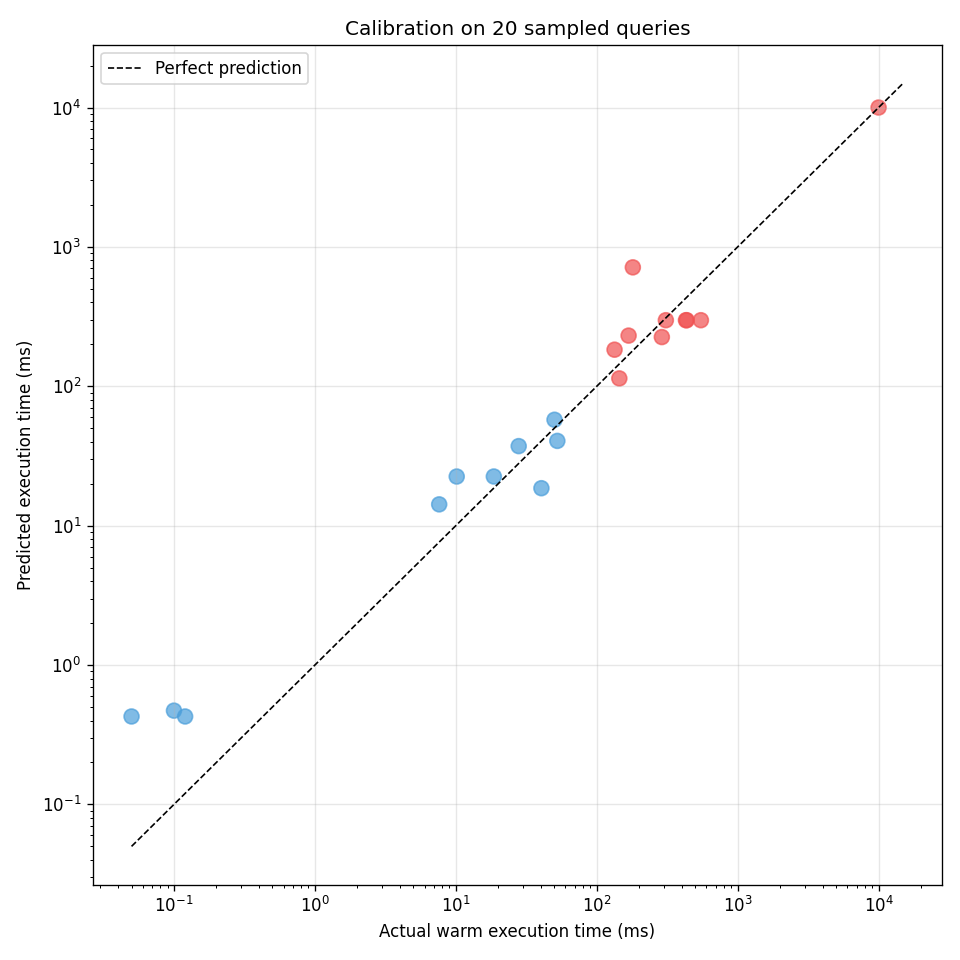
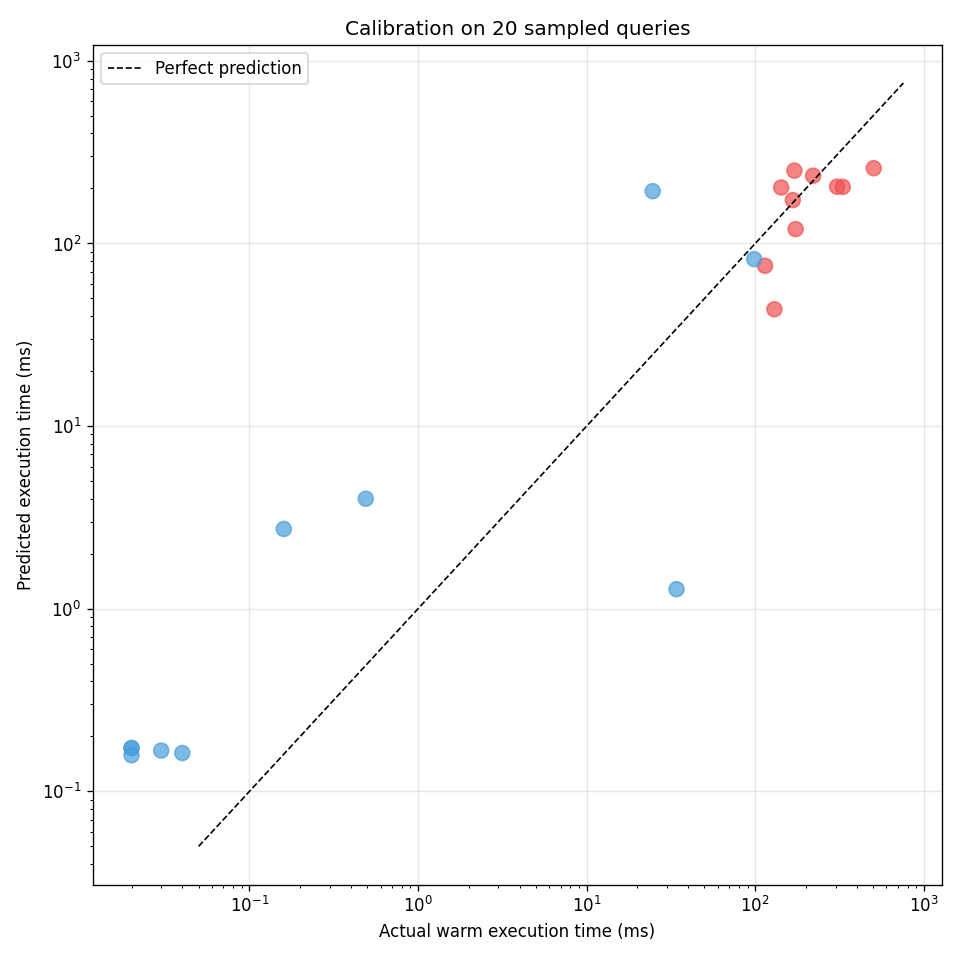
still need to re-evaluate our new approach, reviewed the report and readme in detail

diff --git a/evaluations/evaluation_pipeline.py b/evaluations/evaluation_pipeline.py
@@ -15,6 +15,11 @@ Outputs:
   - evaluation_pipeline.png  (bar chart of summary metrics)
 """
 
+import sys, os
+sys.path.insert(0, os.path.dirname(os.path.dirname(os.path.abspath(__file__))))
+SCRIPT_DIR = os.path.dirname(os.path.abspath(__file__))
+
+
 import csv
 import json
 import os
@@ -121,7 +126,8 @@ def evaluate_single_suggestion(conn, baseline_ms, suggestion):
 
 def main():
     print("Loading dataset and models...")
-    df = pd.read_csv("training_data.csv")
+    df = pd.read_csv(os.path.join(os.path.dirname(SCRIPT_DIR), "training_data.csv"))
+
     slow = df[df["label"] == "slow"].copy()
 
     # Stratify: half moderately slow (100-500ms), half very slow (>500ms)
@@ -218,12 +224,12 @@ def main():
             "full_n_candidates": full.get("n_candidates", 0),
             
         })
-        pd.DataFrame(rows).to_csv("evaluation_pipeline.csv", index=False)
+        pd.DataFrame(rows).to_csv(os.path.join(SCRIPT_DIR, "evaluation_pipeline.csv"), index=False)
 
     conn.close()
 
     out_df = pd.DataFrame(rows)
-    out_df.to_csv("evaluation_pipeline.csv", index=False)
+    out_df.to_csv(os.path.join(SCRIPT_DIR, "evaluation_pipeline.csv"), index=False)
     print(f"\nSaved per-query results to evaluation_pipeline.csv")
 
     # ─── Summary ───
@@ -252,7 +258,7 @@ def main():
         brk = f"{s['broken_rate_pct']:.0f}%"
         print(f"{name:<18} {avg:>12} {win:>10} {brk:>10}")
 
-    with open("evaluation_pipeline_summary.json", "w") as f:
+    with open(os.path.join(SCRIPT_DIR, "evaluation_pipeline_summary.json"), "w") as f:
         json.dump(summary, f, indent=2)
 
     # ─── Plot ───
@@ -278,7 +284,7 @@ def main():
                     f"{v:.1f}", ha='center', fontweight='bold')
 
     plt.tight_layout()
-    plt.savefig("evaluation_pipeline.png", dpi=120)
+    plt.savefig(os.path.join(SCRIPT_DIR, "evaluation_pipeline.png"), dpi=120)
     print("\nSaved plot to evaluation_pipeline.png")
 
 

diff --git a/evaluations/evaluate_predictions.py b/evaluations/evaluate_predictions.py
@@ -9,6 +9,10 @@ This is the "spot check" version — it doesn't replace the held-out test
 set evaluation in the notebook, but lets us eyeball calibration on
 specific queries (e.g. queries near the boundary, very slow queries, etc.)
 """
+import sys, os
+sys.path.insert(0, os.path.dirname(os.path.dirname(os.path.abspath(__file__))))
+
+SCRIPT_DIR = os.path.dirname(os.path.abspath(__file__))
 
 import random
 import psycopg2
@@ -33,7 +37,8 @@ random.seed(RANDOM_SEED)
 
 def main():
     print("Loading data...")
-    df = pd.read_csv("training_data.csv")
+    df = pd.read_csv(os.path.join(os.path.dirname(SCRIPT_DIR), "training_data.csv"))
+
     print(f"  {len(df)} queries available")
 
     # Sample with stratification: half slow, half fast, so we see both regimes
@@ -89,7 +94,7 @@ def main():
     conn.close()
 
     out = pd.DataFrame(rows)
-    out.to_csv("evaluation_sample.csv", index=False)
+    out.to_csv(os.path.join(SCRIPT_DIR, "evaluation_sample.csv"), index=False)
     print(f"\nSaved details to evaluation_sample.csv")
 
     # Summary metrics
@@ -120,7 +125,8 @@ def main():
     ax.grid(True, alpha=0.3)
 
     plt.tight_layout()
-    plt.savefig("evaluation.png", dpi=120)
+    plt.savefig(os.path.join(SCRIPT_DIR, "evaluation.png"), dpi=120)
+
     print("Saved scatter plot to evaluation.png")
 
 

diff --git a/evaluations/results_of_model_in_one_run/one_run_results.py b/evaluations/results_of_model_in_one_run/one_run_results.py
@@ -1,18 +1,16 @@
 """
-Pipeline evaluation summary.
+Pipeline results summary.
 
-Reads pipeline_evaluation_results.json and prints a formatted
+Reads one_run_results.json and prints a formatted
 summary table with aggregate metrics for the report.
 
-Run from project root:
-    python evaluate_pipeline_results.py
 """
 
 import json
 import numpy as np
 import os 
 
-RESULTS_FILE = os.path.join(os.path.dirname(os.path.abspath(__file__)), "pipeline_evaluation_results.json")
+RESULTS_FILE = os.path.join(os.path.dirname(os.path.abspath(__file__)), "one_run_results.json")
 
 with open(RESULTS_FILE) as f:
     results = json.load(f)

diff --git a/finetune/llm_optimizer.py b/finetune/llm_optimizer.py
@@ -72,7 +72,7 @@ class LLMOptimizer:
         else:
             print(
                 f"[LLMOptimizer] Fine-tuned model not found at '{FINETUNED_MODEL_DIR}'.\n"
-                f"  Run 'python finetune/finetune_sqlcoder.py' to train it.\n"
+                f"  Download from HuggingFace: huggingface-cli download lamahugface/sqlcoder-stackexchange --local-dir finetune/sqlcoder-finetuned\n"
                 f"  Falling back to GPT-4o-mini."
             )
             self._use_fallback = True

diff --git a/README.md b/README.md
@@ -1,6 +1,6 @@
 # AI-Powered PostgreSQL Slow Query Monitor
 
-**Course:** Advanced AI — University Project  
+**Course:** Advanced AI 
 **Authors:** Lama Abou Khalil & Lina Belabed
 **Dataset:** Stats Stack Exchange dump (stats.stackexchange.com)
 
@@ -45,7 +45,7 @@ Trains a multi-task PyTorch neural network on `training_data.csv`.
 - Classification head → P(slow), trained with binary cross-entropy
 - Regression head → predicted log-execution-time in ms, trained with quantile loss (τ=0.7)
 
-**Joint loss:** `α × BCE + (1 − α) × QuantileLoss`, with α=0.6. Quantile loss was chosen over MSE to reduce systematic under-prediction of slow queries — the asymmetric penalty penalises under-prediction more than over-prediction.
+**Joint loss:** `α × BCE + (1 − α) × QuantileLoss`, with α=0.6. Quantile loss was chosen over MSE to reduce systematic under-prediction of slow queries; the asymmetric penalty penalises under-prediction more than over-prediction.
 
 **Input features (20 total):**
 
@@ -76,8 +76,8 @@ Trains a multi-task PyTorch neural network on `training_data.csv`.
 
 ### `classifier/inference.py`
 Inference wrapper. Provides `QueryAnalyzer` with two methods:
-- `analyze(query, conn)` — returns `{p_slow, predicted_ms, features}`
-- `rank_candidates(original, candidates, conn)` — scores each rewrite candidate and returns them sorted by predicted speedup
+- `analyze(query, conn)` : returns `{p_slow, predicted_ms, features}`
+- `rank_candidates(original, candidates, conn)` : scores each rewrite candidate and returns them sorted by predicted speedup
 
 Plan features require a live DB connection. Falls back to text-only features (plan features zeroed) if the connection is unavailable.
 
@@ -209,7 +209,7 @@ project_ai/
 │   ├── build_dataset.py       # GPT-4o pair generation script
 │   ├── build_dataset_with_schema.py   # Schema-aware variant
 │   ├── finetune_evalutation.ipynb     # Fine-tune evaluation notebook
-│   └── older_bad_approach/    # Archived t5-small / codet5-small attempts
+│   └── older_bad_approach/    # Archived t5-small / codet5-small attempts, both failed, but we put them here to show our efforts in making a model learn sql given the time limitation and data limitation, we focused more on giving you good results regardless of the complexity of the new model
 │
 ├── monitor/
 │   └── monitor.py             # Main 6-stage pipeline
@@ -230,7 +230,7 @@ project_ai/
 │
 ├── loading_data/
 │   └── local_data.py          # XML → PostgreSQL loader
-│
+----extras (for rubric):--------
 ├── evaluation_pipeline.py     # End-to-end pipeline comparison
 ├── evaluate_predictions.py    # Classifier evaluation script
 ├── training_data.csv          # 1,438-row labeled dataset
@@ -240,7 +240,28 @@ project_ai/
 └── README.md
 ```
 
-> **Note:** `finetune/sqlcoder-finetuned/` (the fine-tuned model weights, ~800MB) is excluded from version control via `.gitignore`. Re-generate by running `finetune/finetune_sqlcoder.py` with `venv312` active.
+> **Note:** `finetune/sqlcoder-finetuned/` is excluded from version control (too large for GitHub). The fine-tuned adapter is hosted on HuggingFace at [lamahugface/sqlcoder-stackexchange](https://huggingface.co/lamahugface/sqlcoder-stackexchange/tree/main). See **Downloading the fine-tuned model** below.
+
+---
+
+## Downloading the fine-tuned model
+
+The QLoRA adapter (~800MB) is hosted on HuggingFace and excluded from this repository via `.gitignore`.
+
+```bash
+hf download lamahugface/sqlcoder-stackexchange --local-dir finetune/sqlcoder-finetuned
+```
+
+Or in Python:
+```python
+from huggingface_hub import snapshot_download
+snapshot_download(
+    repo_id="lamahugface/sqlcoder-stackexchange",
+    local_dir="finetune/sqlcoder-finetuned"
+)
+```
+
+Once downloaded, the monitor will find the adapter automatically at `finetune/sqlcoder-finetuned/` and load it on startup. If the model is missing, `llm_optimizer.py` falls back to GPT-4o-mini (requires `OPENAI_API_KEY` in `.env`).
 
 ---
 
@@ -248,27 +269,19 @@ project_ai/
 
 ### Prerequisites
 
-- Python 3.13 (project runtime) and Python 3.12 (model training + LLM inference)
+- Python 3.12.9 (model training + LLM inference)- it won't work on something else like 3.13.3 for example
 - PostgreSQL 16+ (developed against PostgreSQL 18)
 - NVIDIA GPU with CUDA 12.8+ for LLM inference (recommended; CPU fallback is very slow)
 - ~20 GB free disk space for the sqlcoder-7b model weights
 
 ### 1. Create environments
 
-**Project runtime (Python 3.13):**
-```powershell
-python -m venv venv
-venv\Scripts\activate
-pip install -r requirements.txt
-```
-
 **Model training and LLM inference (Python 3.12 + CUDA):**
 ```powershell
-py -3.12 -m venv venv312
-venv312\Scripts\activate
+py -3.12 -m venv venv
+venv\Scripts\activate
 pip install --pre torch torchvision --index-url https://download.pytorch.org/whl/nightly/cu128
-pip install --upgrade transformers peft bitsandbytes accelerate datasets
-pip install psycopg2-binary python-dotenv openai sentence-transformers flask pandas scikit-learn
+pip install -r requirements_312.txt
 ```
 
 > `venv312` is required for `finetune/finetune_sqlcoder.py` and `monitor/monitor.py`. The CUDA nightly build is needed for RTX 40/50 series GPUs (sm_89+, sm_120).
@@ -295,7 +308,7 @@ psql -U postgres -d stackexchange_db -c "SELECT (SELECT COUNT(*) FROM users) AS 
 
 Expected: ~345k users, ~425k posts, ~1.7M votes.
 
-### 4. Generate training data
+### 4. Generate training data (already done but if you want)
 
 ```powershell
 python queries_generation/all_queries.py
@@ -303,7 +316,7 @@ python queries_generation/all_queries.py
 
 Runtime: ~35 minutes. Output: `training_data.csv` (~1,438 rows).
 
-### 5. Train the classifier
+### 5. Train the classifier (already done but if you want)
 
 Open and run `classifier/classifier.ipynb`, or:
 ```powershell
@@ -312,14 +325,19 @@ python classifier/classifier.py
 
 Output: `classifier/query_classifier.pth`, `classifier/scaler.pkl`, `classifier/model_meta.json`.
 
-### 6. Fine-tune the LLM
+### 6. Get the fine-tuned LLM adapter
 
+**Download from HuggingFace (recommended, ~800MB):**
+```powershell
+hf download lamahugface/sqlcoder-stackexchange --local-dir finetune/sqlcoder-finetuned
+```
+
+**Optionally — Retrain locally (~10 minutes on RTX GPU):**
 ```powershell
 venv312\Scripts\activate
 python finetune/finetune_sqlcoder.py
 ```
-
-Downloads `defog/sqlcoder-7b` (~14.5 GB) on first run, then trains the QLoRA adapter for approximately 10 minutes. Output: `finetune/sqlcoder-finetuned/`.
+Downloads `defog/sqlcoder-7b` (~14.5 GB) on first run, then trains the QLoRA adapter. Output saved to `finetune/sqlcoder-finetuned/`.
 
 ### 7. Run the monitor
 

diff --git a/report.md b/report.md
@@ -1,7 +1,7 @@
 # AI-Powered SQL Slow-Query Monitor
 
 **Course**: Advanced AI (BCS) [MBI36j]  
-**Authors**: Lama Aboukhalil, Lina Belabed
+**Authors**: Lama Abou Khalil, Lina Belabed 
 **Date**: 9 May 2026
 
 ---
@@ -9,14 +9,14 @@
 ## 1. Problem
 
 Modern web applications run thousands of SQL queries per minute. Slow queries
-degrade user experience invisibly — they don't crash, they just take longer than
+degrade user experience invisibly; they don't crash, they just take longer than
 they should. We built **a live monitor that detects slow PostgreSQL queries,
 predicts how slow they are, generates and ranks candidate optimizations, and
 verifies the top candidate against the database** before presenting a structured
 response.
 
 The system monitors a Stats Stack Exchange dump (~345k users, 425k posts, 1.7M
-votes) and routes any query whose mean execution time exceeds 100ms through the
+votes) and routes any query whose mean execution time exceeds 100ms (100ms is the threshold we use in slow vs fast) through the
 AI pipeline below.
 
 ---
@@ -24,7 +24,7 @@ AI pipeline below.
 ## 2. System architecture
 
 ```
-pg_stat_statements (poll every 5s)
+pg_stat_statements enabled from pgAdmin (poll every 5s)
         ↓
 [1] Feature extraction — 8 lexical + 12 plan = 20 features
         ↓
@@ -109,7 +109,7 @@ AdamW optimizer.
 
 The regression head predicts log-execution-time; predictions are
 exponentiated at inference time. A log-MAE of 0.716 corresponds to predictions
-being off by an average factor of approximately 2.0× — sufficient for
+being off by an average factor of approximately 2.0× ; sufficient for
 distinguishing fast candidates from slow ones in the ranking step.
 
 ### 3.2 Fine-tuned query generator (second-stage domain adaptation)
@@ -206,8 +206,8 @@ anti-patterns in our training data:
 | Multiple correlated subqueries | 539.8 | 434.5 | 105.3 | 1.24× |
 | `DISTINCT` with 3-table `JOIN` | 672.5 | 290.9 | 381.6 | 2.31× |
 
-†The `LIKE` query was correctly skipped by the classifier (p_slow = 9.7%,
-below the 0.5 threshold) — the planner features indicated the query was not
++ The `LIKE` query was correctly skipped by the classifier (p_slow = 9.7%,
+below the 0.5 threshold), the planner features indicated the query was not
 actually slow despite its textual appearance.
 
 **Aggregate results (7 attempted queries):**
@@ -255,7 +255,7 @@ actually slow despite its textual appearance.
 
 ---
 
-## 5. Lecturer's feedback addressed
+## 5. Your feedback addressed (Last class of Advanced AI)
 
 | Concern | How addressed |
 |---|---|
@@ -309,11 +309,11 @@ python classifier/classifier.py
 
 # 4. LLM fine-tuning (requires venv312 + GPU)
 python finetune/build_dataset.py                  # generate pairs via GPT-4o-mini
-python finetune/finetune_sqlcoder.py              # QLoRA fine-tune (~10 minutes on RTX 5070)
+python finetune/finetune_sqlcoder.py              # QLoRA fine-tune (~10 minutes on my GPU, will be different for you)
 
 # 5. Run the system
-python monitor/monitor.py                         # live pipeline
-python dashboard/app.py                           # dashboard at localhost:5000
+python monitor/monitor.py                         # live pipeline, you write queries in pgAdmin, and you watch our model either in the terminal or the dashboard doing its work
+python dashboard/app.py                           # dashboard at localhost:5000, provides graphs at the end too, index.html is an ai-generated template, but that does not matter
 ```
 
 See `README.md` for full setup details including environment variables and

diff --git a/architecture_diagram.md b/architecture_diagram.md
@@ -1,4 +1,5 @@
 # System Architecture
+Download mermaid preview extension for markdown files to be able to see this file correctly!
 
 ```mermaid
 flowchart TD
